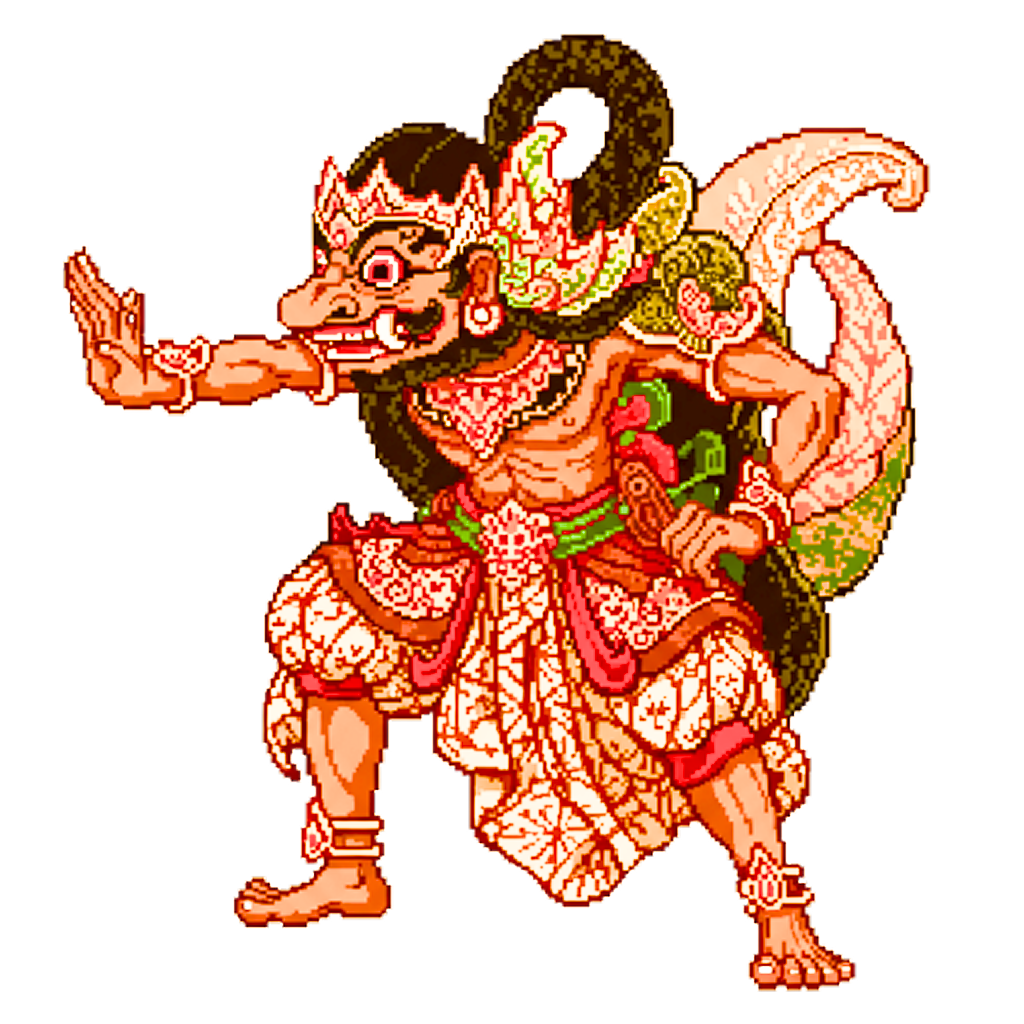
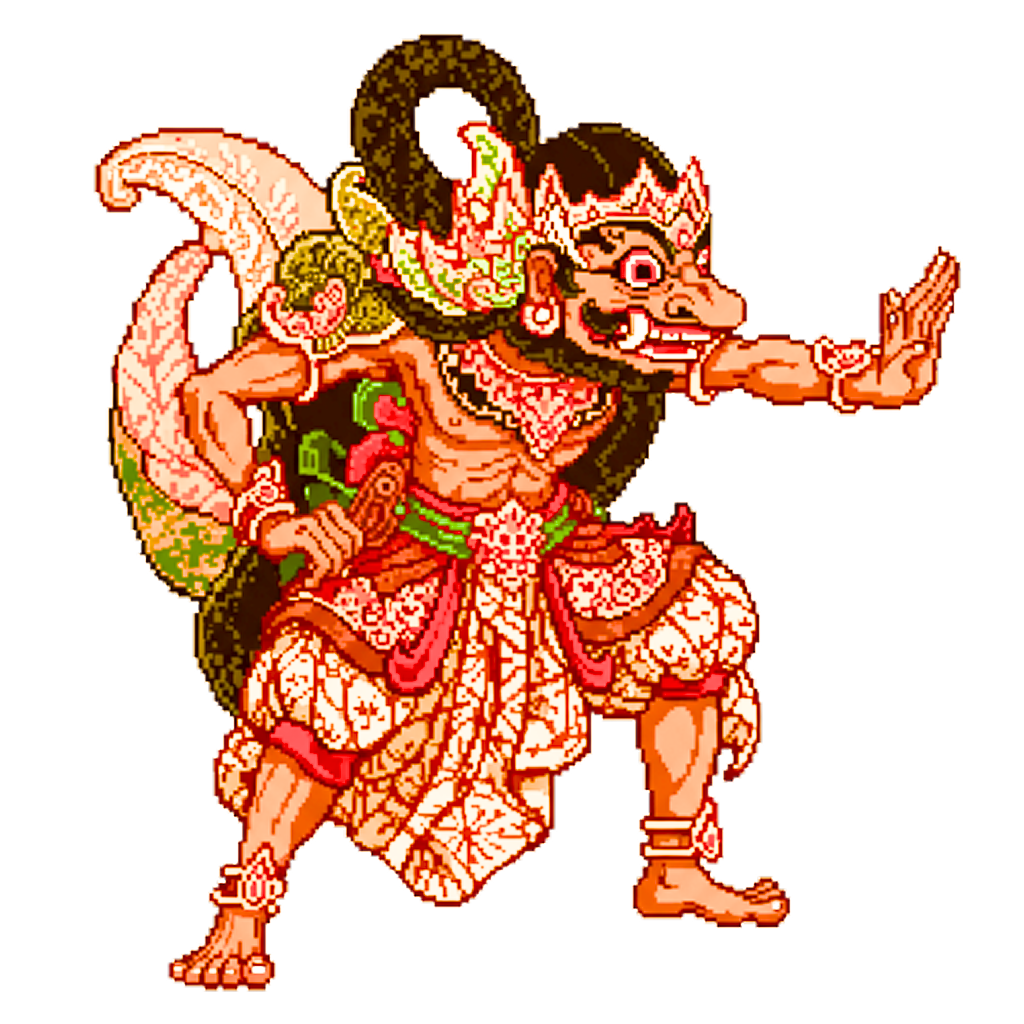
fix bug v2

diff --git a/src/view/GameCanvas.java b/src/view/GameCanvas.java
@@ -20,7 +20,6 @@ public class GameCanvas extends JPanel implements KeyListener {
         setPreferredSize(new Dimension(Constants.SCREEN_WIDTH, Constants.SCREEN_HEIGHT));
         setBackground(Color.BLACK);
         setFocusable(true);
-        // Penting: requestFocus dipanggil di GameWindow saat switch card
         addKeyListener(this);
     }
 
@@ -31,7 +30,6 @@ public class GameCanvas extends JPanel implements KeyListener {
 
     @Override
     public void keyPressed(KeyEvent e) {
-        // Kontrol hanya bekerja jika panel ini punya fokus
         switch (e.getKeyCode()) {
             case KeyEvent.VK_UP:    presenter.onMoveUp(); break;
             case KeyEvent.VK_DOWN:  presenter.onMoveDown(); break;
@@ -51,16 +49,34 @@ public class GameCanvas extends JPanel implements KeyListener {
         GameCharacter p = s.getPlayer();
         GameCharacter e = s.getEnemy();
 
-        if (p != null) g.drawImage(p.getCurrentImage(), p.getX(), p.getY(), 120, 120, null);
-        if (e != null) g.drawImage(e.getCurrentImage(), e.getX(), e.getY(), 120, 120, null);
+        // --- GAMBAR PLAYER (KIRI, Hadap Kanan) ---
+        if (p != null) {
+            // Gambar normal
+            g.drawImage(p.getCurrentImage(), p.getX(), p.getY(), 120, 120, null);
+        }
 
+        // --- GAMBAR ENEMY (KANAN, Hadap Kiri) ---
+        if (e != null) {
+            // Logika Flip: Kita gambar dari titik X+Lebar mundur ke kiri
+            // Syntax: drawImage(img, x, y, width, height, observer)
+            // Jika width negatif, gambar akan terbalik
+            g.drawImage(e.getCurrentImage(),
+                    e.getX() + 120, e.getY(), // Posisi X digeser sejauh lebar gambar
+                    -120, 120,                // Lebar dibuat NEGATIF agar membalik
+                    null);
+        }
+
+        // --- PROJECTILES ---
         for (Projectile pr : presenter.getProjectiles()) {
-            // FIX: Gambar Projectile menggunakan Image, bukan fillRect
-            if (pr.getImage() != null) {
-                // Ukuran projectile disesuaikan, misal 60x20
-                g.drawImage(pr.getImage(), pr.getX(), pr.getY(), 60, 20, null);
+            Image projImg = pr.getImage();
+            if (projImg != null) {
+                // Jika projectile dari musuh, kita flip juga agar arah apinya sesuai
+                if (!pr.isFromPlayer()) {
+                    g.drawImage(projImg, pr.getX() + 60, pr.getY(), -60, 20, null);
+                } else {
+                    g.drawImage(projImg, pr.getX(), pr.getY(), 60, 20, null);
+                }
             } else {
-                // Fallback jika gambar gagal load
                 g.setColor(pr.isFromPlayer() ? Color.RED : Color.YELLOW);
                 g.fillRect(pr.getX(), pr.getY(), 20, 8);
             }

diff --git a/src/util/AudioPlayer.java b/src/util/AudioPlayer.java
@@ -2,10 +2,10 @@ package util;
 
 import javax.sound.sampled.*;
 import java.io.File;
-import java.io.IOException;
 
 public class AudioPlayer {
     private static AudioPlayer instance;
+    // Path ini relatif terhadap folder project (tempat file src berada)
     private String basePath = "src/assets/audio/";
 
     private AudioPlayer() {}
@@ -19,14 +19,24 @@ public class AudioPlayer {
         new Thread(() -> {
             try {
                 File f = new File(basePath + filename);
-                if (!f.exists()) return;
+                if (!f.exists()) {
+                    System.err.println("[AUDIO ERROR] File not found: " + f.getAbsolutePath());
+                    return;
+                }
+
+                System.out.println("[AUDIO] Playing BGM: " + filename);
                 AudioInputStream audioIn = AudioSystem.getAudioInputStream(f);
                 Clip clip = AudioSystem.getClip();
                 clip.open(audioIn);
+
+                // Volume Control (Opsional: Mengecilkan suara BGM sedikit)
+                FloatControl gainControl = (FloatControl) clip.getControl(FloatControl.Type.MASTER_GAIN);
+                gainControl.setValue(-10.0f); // Kurangi 10 decibel agar tidak terlalu keras
+
                 clip.loop(Clip.LOOP_CONTINUOUSLY);
                 clip.start();
             } catch (Exception e) {
-                e.printStackTrace();
+                System.err.println("[AUDIO ERROR] " + e.getMessage());
             }
         }).start();
     }
@@ -35,7 +45,12 @@ public class AudioPlayer {
         new Thread(() -> {
             try {
                 File f = new File(basePath + filename);
-                if (!f.exists()) return;
+                if (!f.exists()) {
+                    // Jangan spam error jika file memang belum ada
+                    // System.err.println("SFX not found: " + filename);
+                    return;
+                }
+
                 AudioInputStream audioIn = AudioSystem.getAudioInputStream(f);
                 Clip clip = AudioSystem.getClip();
                 clip.open(audioIn);

diff --git a/src/view/components/HUDPanel.java b/src/view/components/HUDPanel.java
@@ -12,13 +12,18 @@ public class HUDPanel extends JPanel {
 
     public HUDPanel(GamePresenter presenter) {
         this.presenter = presenter;
-
+        // Buat background panel sedikit transparan atau gelap
+        setBackground(new Color(20, 20, 20));
         setPreferredSize(new Dimension(1280, 80));
-        setLayout(new FlowLayout());
+        setLayout(new FlowLayout(FlowLayout.CENTER, 20, 20));
 
-        JButton s1 = new JButton("Skill 1");
-        JButton s2 = new JButton("Skill 2");
-        JButton s3 = new JButton("Skill 3");
+        JButton s1 = new JButton("Skill 1 (Key: 1)");
+        JButton s2 = new JButton("Skill 2 (Key: 2)");
+        JButton s3 = new JButton("Skill 3 (Key: 3)");
+
+        // Styling tombol sedikit
+        Font btnFont = new Font("Dialog", Font.BOLD, 12);
+        s1.setFont(btnFont); s2.setFont(btnFont); s3.setFont(btnFont);
 
         s1.addActionListener(e -> presenter.onSkill(0));
         s2.addActionListener(e -> presenter.onSkill(1));
@@ -35,12 +40,22 @@ public class HUDPanel extends JPanel {
 
         GameCharacter p = presenter.getGameState().getPlayer();
 
-        g.setColor(Color.WHITE);
-        g.setFont(new Font("Dialog", Font.BOLD, 18));
+        // Ganti Font dan Warna
+        g.setFont(new Font("Monospaced", Font.BOLD, 20));
 
         if (p != null) {
-            g.drawString("HP: " + p.getHp(), 20, 25);
-            g.drawString("Sukma: " + p.getSukma(), 20, 50);
+            // Efek Shadow Hitam agar tulisan jelas
+            g.setColor(Color.BLACK);
+            g.drawString("HP: " + p.getHp(), 22, 32);
+            g.drawString("Sukma: " + p.getSukma(), 22, 57);
+
+            // Tulisan Utama (KUNING EMAS)
+            g.setColor(new Color(255, 215, 0)); // Gold Color
+            g.drawString("HP: " + p.getHp(), 20, 30);
+
+            // Sukma warna Biru Muda (Cyan) atau tetap Emas
+            g.setColor(new Color(135, 206, 250)); // Light Sky Blue
+            g.drawString("Sukma: " + p.getSukma(), 20, 55);
         }
     }
 }
